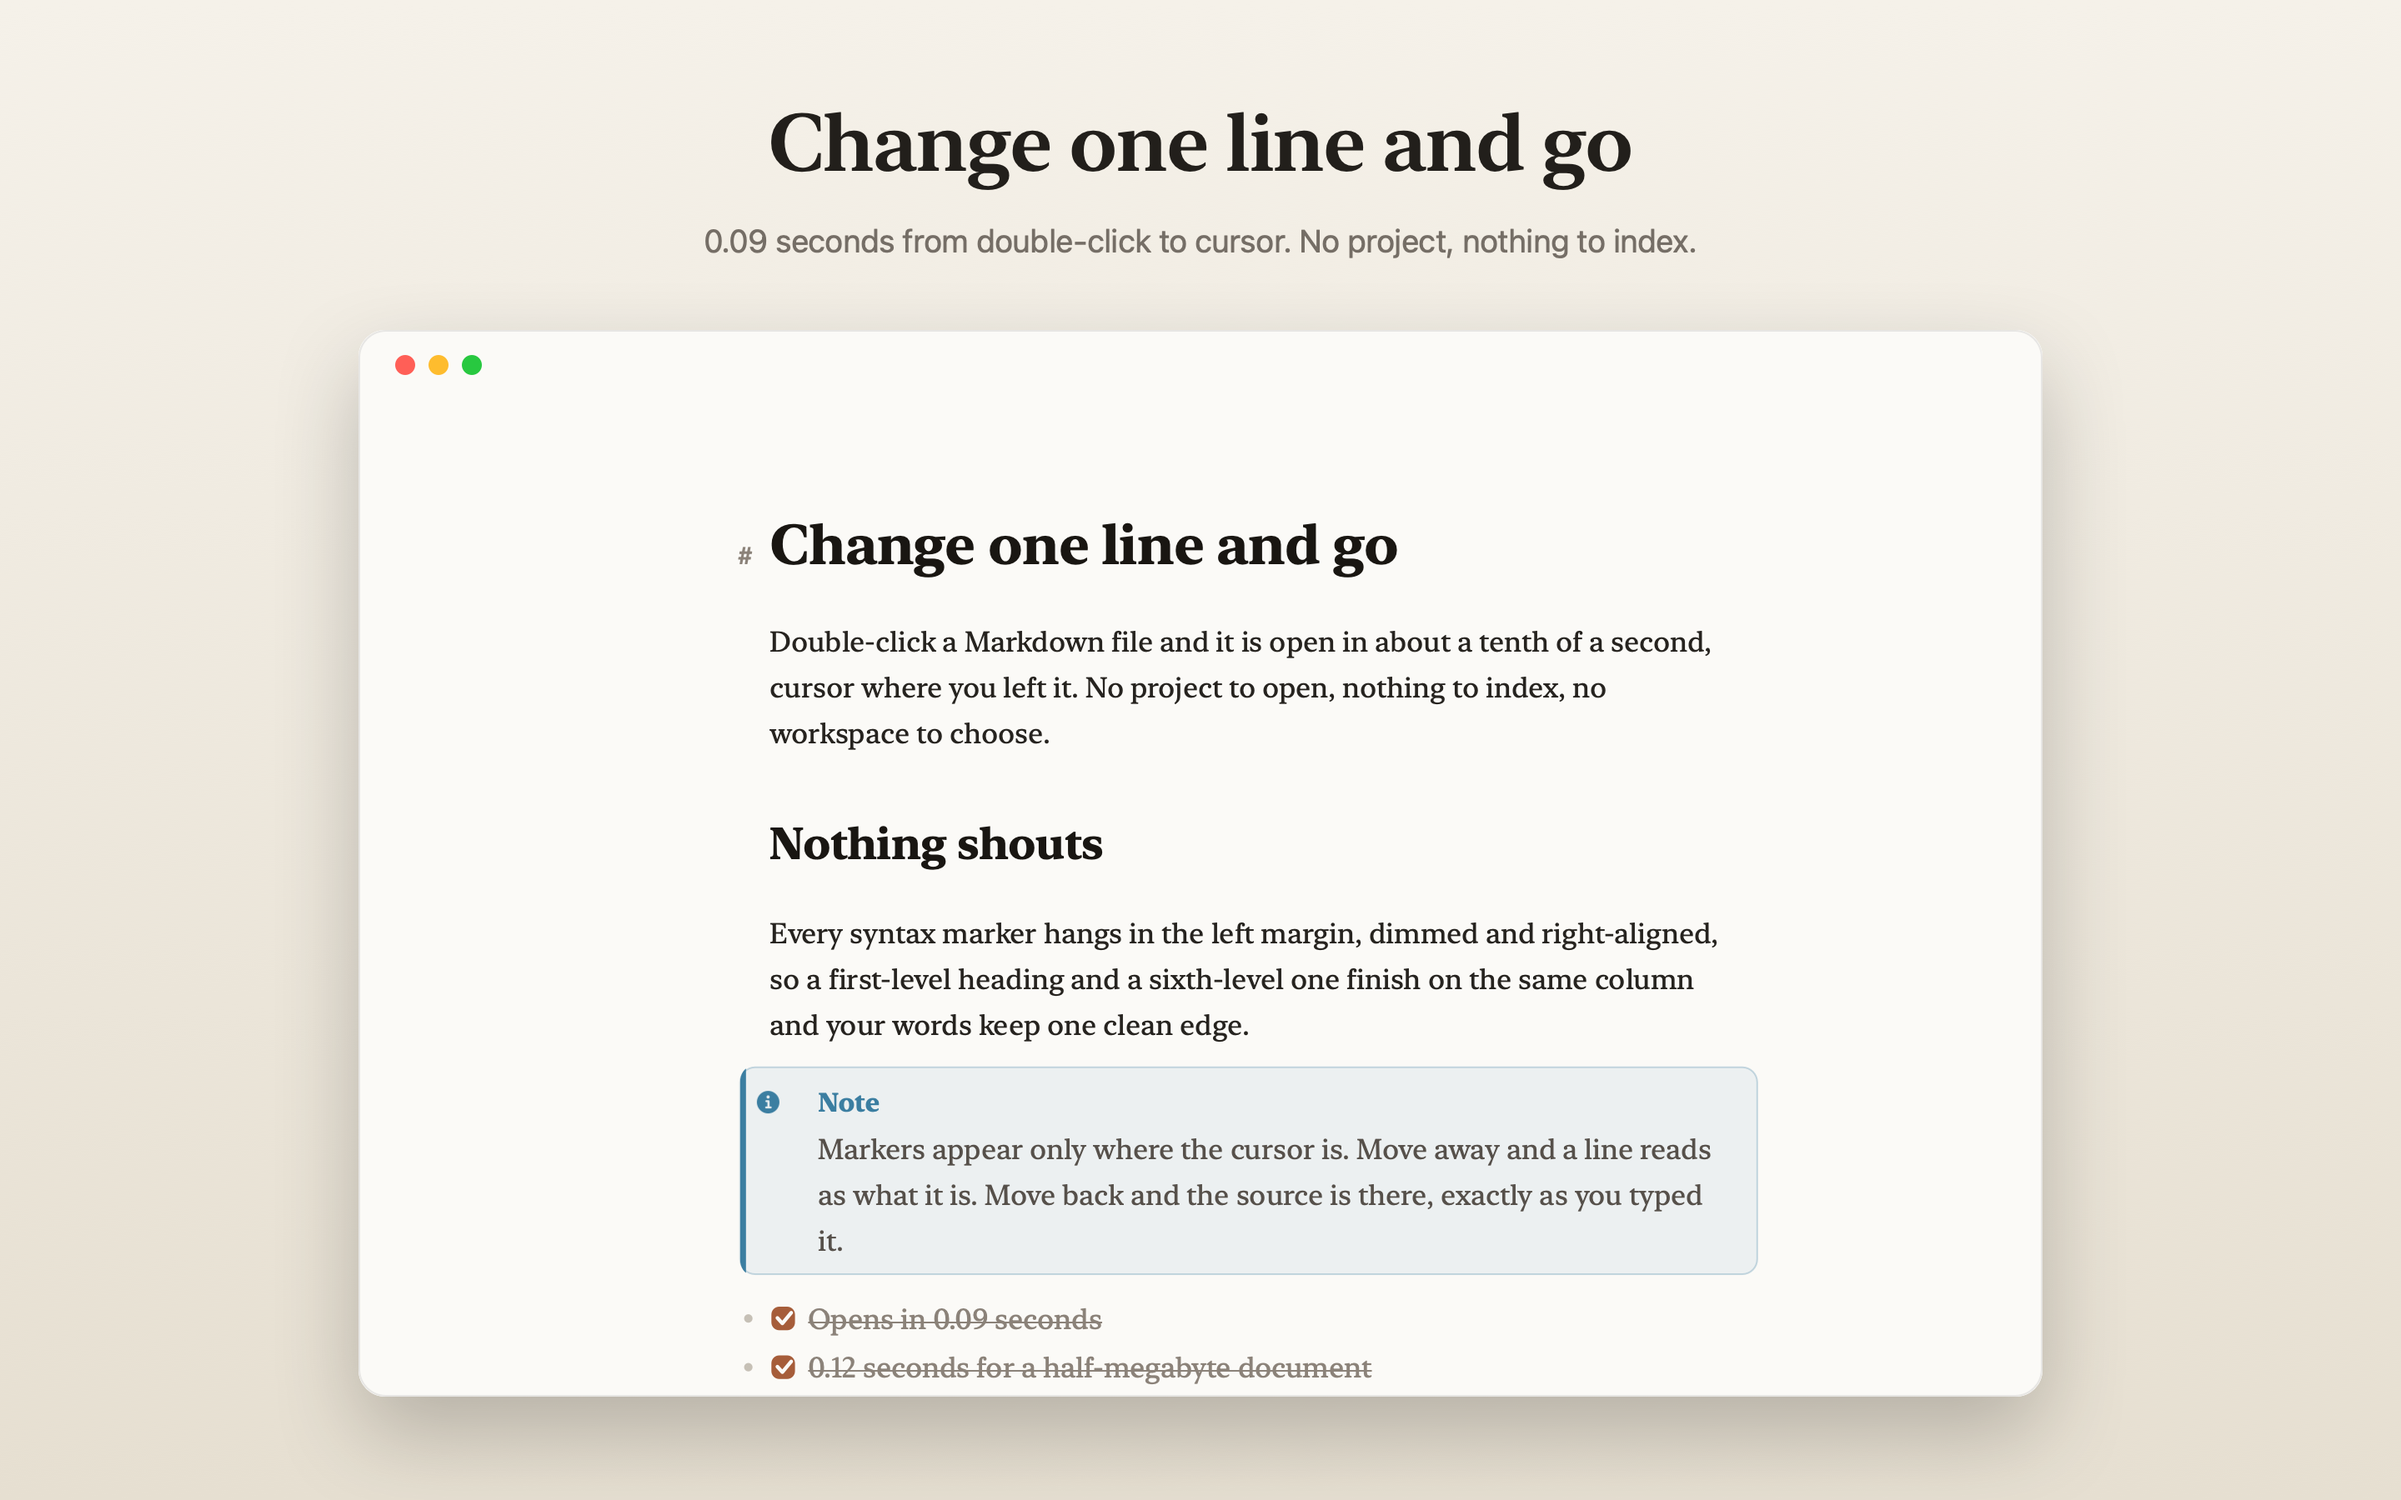
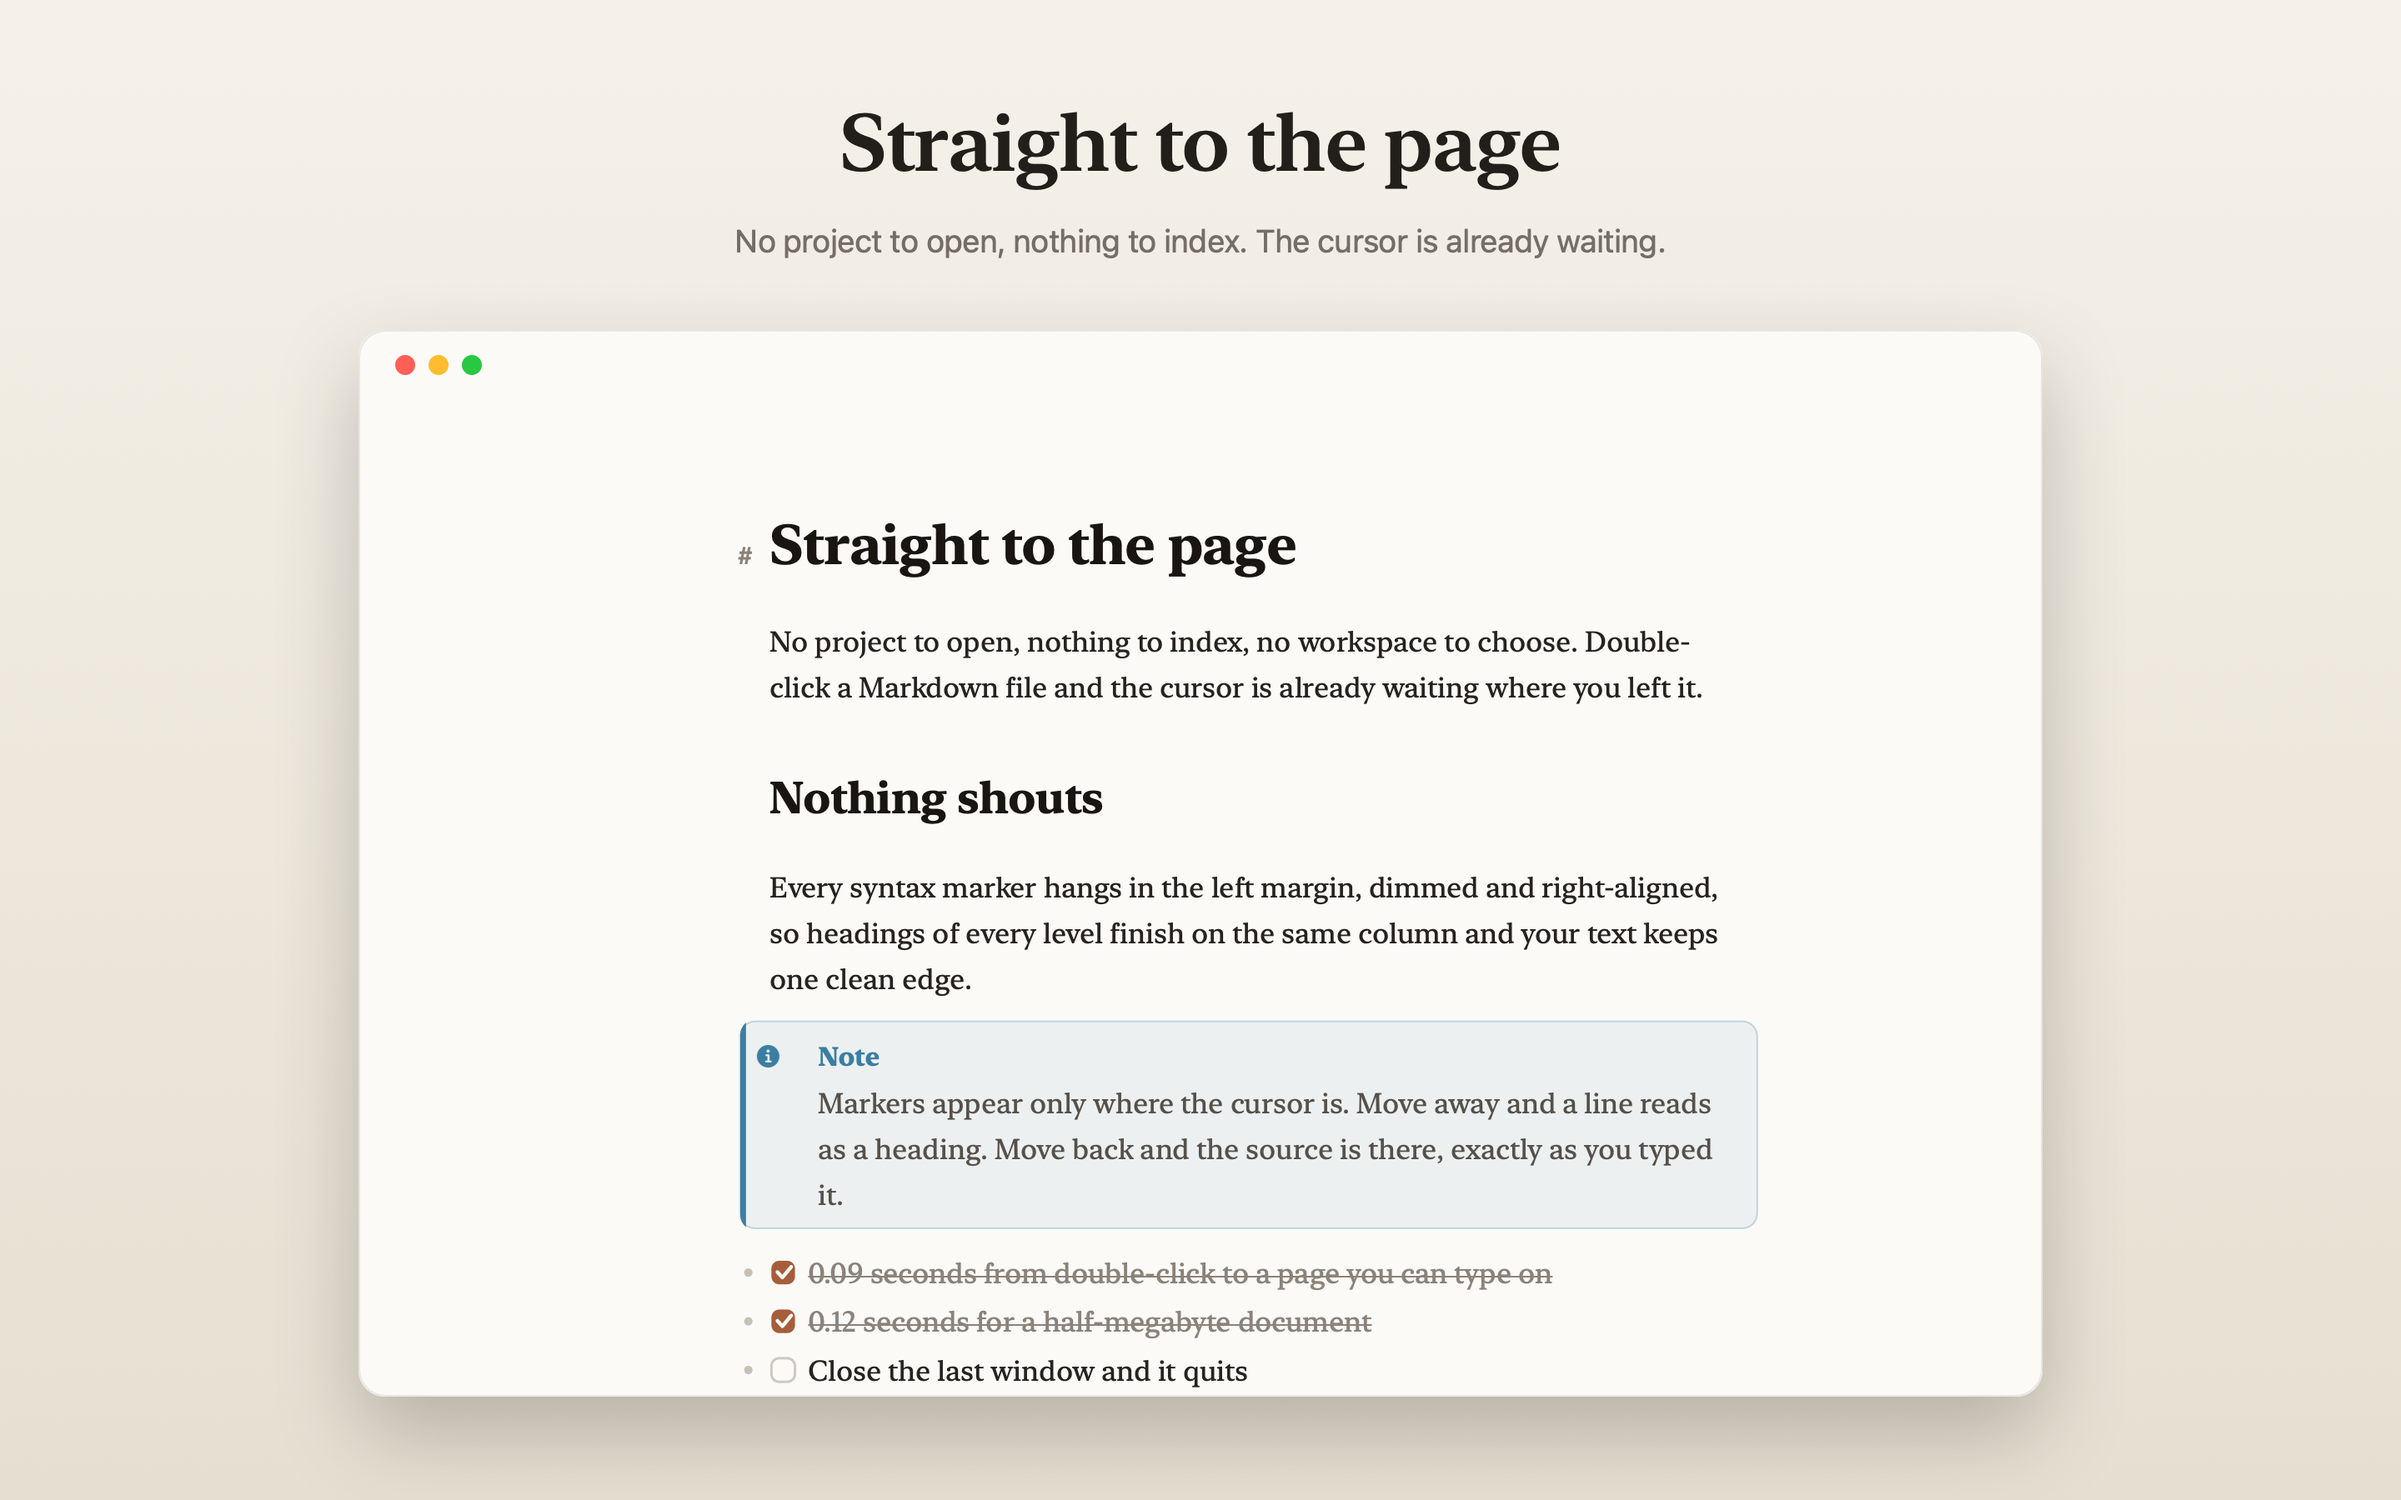
Reframe the first screenshot
"Change one line and go" made the app sound like it was only good for trivial
work. The speed is about directness, not about the size of the job, so the
hero shot leads on that instead: straight to the page, no project to open,
nothing to index, the cursor already waiting.

The document inside the window changed with it, since the headline and the
page were making the same point twice.

diff --git a/store/shot-1.md b/store/shot-1.md
@@ -1,14 +1,14 @@
-# Change one line and go
+# Straight to the page
 
-Double-click a Markdown file and it is open in about a tenth of a second, cursor where you left it. No project to open, nothing to index, no workspace to choose.
+No project to open, nothing to index, no workspace to choose. Double-click a Markdown file and the cursor is already waiting where you left it.
 
 ## Nothing shouts
 
-Every syntax marker hangs in the left margin, dimmed and right-aligned, so a first-level heading and a sixth-level one finish on the same column and your words keep one clean edge.
+Every syntax marker hangs in the left margin, dimmed and right-aligned, so headings of every level finish on the same column and your text keeps one clean edge.
 
 > [!NOTE]
-> Markers appear only where the cursor is. Move away and a line reads as what it is. Move back and the source is there, exactly as you typed it.
+> Markers appear only where the cursor is. Move away and a line reads as a heading. Move back and the source is there, exactly as you typed it.
 
-- [x] Opens in 0.09 seconds
+- [x] 0.09 seconds from double-click to a page you can type on
 - [x] 0.12 seconds for a half-megabyte document
-- [ ] Close the last window and the app quits
+- [ ] Close the last window and it quits
